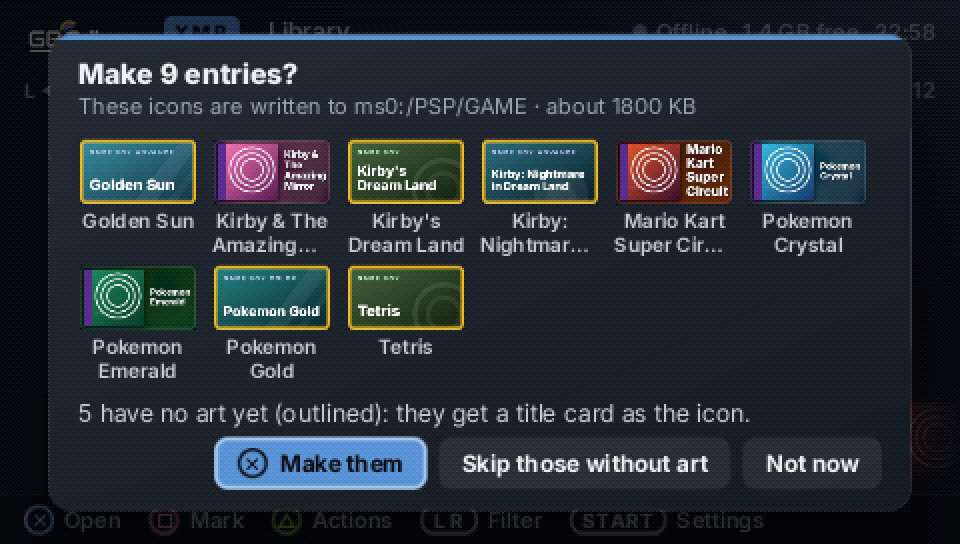
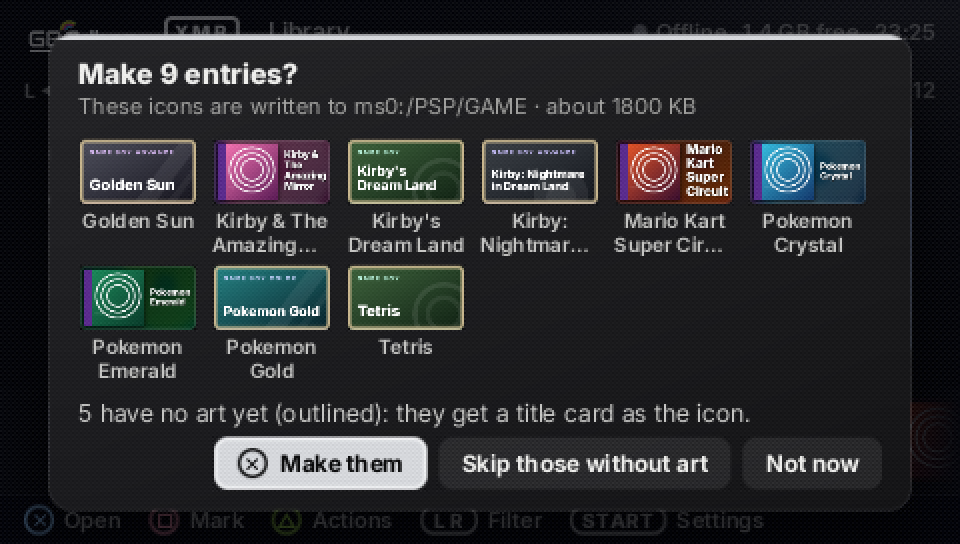
Mono: the new default theme in both apps and the README
Owner 2026-11-05: a true mono black as the main theme.  Near-black ground with layered dark
greys, off-white / mid-grey text, one soft silver accent; no orange or yellow (warn is a muted
sand, info a cool grey-blue); gradients stop short of pure black for the PSP LCD.  The XMB
badge is an outline in the text colour (2 px on the PSP: 1 px lines alias), in the sidebar,
the PSP header and the boot plate.  The light window turns the accent black.  WCAG AA for
text (lowest: fg-4 on ink-3, 4.67:1).

- brand.css + psp/theme.[ch]: Mono first; TH_MONO is the default and the fallback.
- New installs start in Mono; a saved theme (prefs palette / xmbapp.ini theme) is kept.
  Graphite, Slate, Teal and Classic stay selectable.
- tools/test_themes.py: five themes; PSP check_shots PASS on the Mono shots.
- README images recaptured in Mono (PSP in PPSSPP, Windows app, Online tab, hero from the
  real PSP model); text, badges and CHANGELOG updated.

diff --git a/desktop/ui/brand.css b/desktop/ui/brand.css
@@ -1,6 +1,7 @@
 /* GBAdhoc XMB — design tokens, shared by the desktop app (this file) and the PSP app
-   (psp/theme.c holds the same values as a C table). Four themes, chosen in Settings:
-     graphite  neutral graphite, white focus, the logo's amber accent (the default)
+   (psp/theme.c holds the same values as a C table). Five themes, chosen in Settings:
+     mono      true mono black: dark greys, off-white text, a soft silver accent (the default)
+     graphite  neutral graphite, white focus, the logo's amber accent
      slate     cool slate greys, a steel-blue accent
      teal      the same slate, the logo's teal accent; info moves to steel blue
      classic   the deep indigo and violet of 0.1.0-beta.1
@@ -22,9 +23,77 @@
   --mono: "JetBrains Mono", "Cascadia Mono", Consolas, monospace;
 }
 
-/* Graphite (the default). Neutral near-black, no blue cast. Focus is white on grey; the one
+/* Mono (the default, owner 2026-11-05). True mono: near-black ground, layered dark greys for
+   surfaces and cards, off-white and mid-grey text, one restrained light accent (soft silver).
+   No orange or yellow anywhere; warnings are a muted sand so they never read as an accent. The
+   XMB badge is an outline (app.css). Gradients stop short of pure black (the PSP LCD crushes it). */
+:root, :root[data-theme=mono] {
+  --ink-0: #0b0b0c;   /* deepest */
+  --ink-1: #111113;
+  --ink-2: #18181a;
+  --ink-3: #212124;
+  --ink-4: #2c2c30;
+  --line: rgba(255,255,255,.10);
+  --line-2: rgba(255,255,255,.20);
+  --fg: #eeeeec;
+  --fg-2: #c6c6c4;
+  --fg-3: #a2a2a0;
+  --fg-4: #8a8a8e;
+
+
+  /* accent: soft silver, light against the black */
+  --accent: #d6d8dc;
+  --accent-ink: #0b0b0c;
+  --accent-hover: #e8e9ec;
+  --accent-text: #e4e6ea;
+  --accent-soft: rgba(214,216,220,.12);
+  --accent-glow: rgba(214,216,220,.24);
+  --accent-edge: #f4f5f7;
+  --focus: #ffffff;                  /* white ring */
+  --focus-in: #0b0b0c;               /* dark gap inside it */
+  --sel: rgba(255,255,255,.11);      /* selected row / nav / chip: grey */
+  --cross: #8fc1ee;                  /* the PSP's cross glyph is blue */
+
+  /* status: the logo's lime and pink; warn is a muted sand, info a cool grey-blue */
+  --ok: var(--r-lime);   --ok-text: #b7ea5c;
+  --warn: #c8b68e; --warn-text: #ddcfab; --warn-text-2: #ece3cc; --warn-soft: rgba(200,182,142,.14); --warn-line: rgba(200,182,142,.5);
+  --bad: var(--r-pink);  --bad-text: #ff8aa8; --bad-text-2: #ffc4d3;
+  --info: #8ea4ba; --info-text: #b9cadb; --info-text-2: #dbe5ef; --info-soft: rgba(142,164,186,.14); --info-line: rgba(142,164,186,.45);
+
+  /* surfaces: layered greys, never pure black */
+  --page-bg: radial-gradient(120% 90% at 50% 110%,#1e1e20 0%,#0e0e0f 55%,#09090a 100%);
+  --bar-bg: rgba(13,13,14,.6);
+  --bar-bg-2: rgba(13,13,14,.8);
+  --toast-bg: rgba(13,13,14,.96);
+  --app-bg: radial-gradient(90% 70% at 100% 0,#262629 0%,#151517 42%,#0d0d0e 100%);
+  --app-glow: rgba(255,255,255,.06);
+  --panel-bg: linear-gradient(160deg,#252528,#151517);
+  --strip-fade: #131315;
+  --empty-a: #2c2c30;
+  --empty-b: #18181a;
+
+  /* the XMB preview: the PSP's own classic blue wave, not the app's colour */
+  --xmb-bg: #0e1a3a;
+  --xmb-wave-a: #2e63c9;
+  --xmb-wave-b: #163a8a;
+  --xmb-wave-c: #081433;
+
+  /* generated title cards (no art yet): near-neutral greys with a faint cool cast */
+  --card-gba-hue: 220; --card-gba-sat: 8; --card-gba-light: 32; --card-other-hue: 220; --card-spread: 30;
+
+  /* desktop window, dark */
+  --d-bg: #111113; --d-bg-2: #18181a; --d-bg-3: #202023; --d-panel: #141416; --d-card: #1b1b1e;
+  /* desktop window, light (app.css turns the accent black there) */
+  --dl-bg: #f4f4f4; --dl-bg-2: #e9e9ea; --dl-bg-3: #dededf;
+  --dl-text: #151516; --dl-text-2: #3a3a3d; --dl-text-3: #535357; --dl-text-4: #5d5d62;
+  --dl-line: rgba(21,21,22,.1); --dl-line-2: rgba(21,21,22,.2); --dl-hover: rgba(21,21,22,.05); --dl-sel: rgba(21,21,22,.08);
+  --dl-accent-text: #2b2b2e; --dl-ok-text: #46710a; --dl-info-text: #3b5168; --dl-bad-text: #b8123f; --dl-warn-text: #6a5a30;
+  --dl-focus: #151516;   /* the focus ring on light surfaces */
+}
+
+/* Graphite. Neutral near-black, no blue cast. Focus is white on grey; the one
    warm accent is the logo's amber. Warnings move to orange so they never read as the accent. */
-:root, :root[data-theme=graphite] {
+:root[data-theme=graphite] {
   --ink-0: #0a0a0b;   /* deepest */
   --ink-1: #111112;
   --ink-2: #19191b;

diff --git a/desktop/ui/app.css b/desktop/ui/app.css
@@ -40,6 +40,7 @@ body.light{background:var(--dl-bg)}
 /* Settings > Theme: one swatch per theme (its ground and its accent) */
 .tpick button{display:inline-flex;align-items:center;gap:6px;padding:4px 10px}
 .tpick i{width:12px;height:12px;border-radius:3px;box-shadow:0 0 0 1px var(--bd-2)}
+.tpick [data-p=mono] i{background:linear-gradient(135deg,#18181a 50%,#d6d8dc 50%)}
 .tpick [data-p=graphite] i{background:linear-gradient(135deg,#232326 50%,#f5c518 50%)}
 .tpick [data-p=slate] i{background:linear-gradient(135deg,#20262f 50%,#5b94d6 50%)}
 .tpick [data-p=teal] i{background:linear-gradient(135deg,#20262f 50%,#1fb8b0 50%)}
@@ -136,3 +137,8 @@ details#on-logbox[open] summary h3::after{content:" ▾"}
 .statusbar span{white-space:nowrap;overflow:hidden;text-overflow:ellipsis;min-width:0}
 .note{max-width:100%;box-sizing:border-box}
 .oacts{margin-top:10px;display:flex;gap:8px;flex-wrap:wrap}
+
+/* ---- Mono (the default): the XMB badge is an outline in the text colour, never a filled plate;
+   in the light window the silver accent turns black so buttons and bars keep their contrast ---- */
+:root[data-theme=mono] .rail .logo .xmb,:root[data-theme=mono] .brand .xmb{background:none;color:var(--text,var(--fg));box-shadow:inset 0 0 0 1.5px currentColor}
+:root[data-theme=mono] .win[data-theme=light]{--accent:#1b1b1d;--accent-ink:#f4f4f4;--accent-hover:#333336;--accent-soft:rgba(21,21,22,.07);--accent-glow:rgba(21,21,22,.18)}

diff --git a/desktop/ui/desktop.js b/desktop/ui/desktop.js
@@ -575,9 +575,9 @@
 
   // ---------- chrome wiring ----------
   // the colour theme (brand.css: <html data-theme>); dark/light is the window's own data-theme
-  const PALETTES = [['graphite', 'Graphite'], ['slate', 'Slate'], ['teal', 'Teal'], ['classic', 'Classic']];
+  const PALETTES = [['mono', 'Mono'], ['graphite', 'Graphite'], ['slate', 'Slate'], ['teal', 'Teal'], ['classic', 'Classic']];
   function setPalette(p) {
-    if (!PALETTES.some(x => x[0] === p)) p = 'graphite';
+    if (!PALETTES.some(x => x[0] === p)) p = 'mono';   // new installs: Mono (a saved choice is kept)
     document.documentElement.dataset.theme = p;
   }
   function setTheme(t) {

diff --git a/psp/theme.c b/psp/theme.c
@@ -1,4 +1,4 @@
-/* theme.c -- the four themes; values from desktop/ui/brand.css (the design's
+/* theme.c -- the five themes; values from desktop/ui/brand.css (the design's
  * tokens, builds of the designer's mockup), see theme.h. */
 #include "theme.h"
 
@@ -6,7 +6,28 @@
 #include <strings.h>
 
 const theme_t g_themes[TH_COUNT] = {
-   /* Graphite (the default): neutral graphite, white focus, the logo's amber accent;
+   /* Mono (the default, owner 2026-11-05): true mono black, layered dark greys, off-white
+    * text, a soft silver accent; warn is a muted sand, info a cool grey-blue; the XMB
+    * badge is an outline (ui.c, ui_kit.c) */
+   { "mono", "Mono",
+     0xFF0B0B0Cu, 0xFFEEEEECu, 0xFFC6C6C4u, 0xFFA2A2A0u, 0xFF8A8A8Eu,
+     0xFFA2A2A0u,
+     0x1AFFFFFFu, 0x33FFFFFFu,
+     0xFFD6D8DCu, 0xFF0B0B0Cu, 0xFFE4E6EAu, 0xFFF4F5F7u, 0x1FD6D8DCu,
+     0x1CFFFFFFu, 0xFFFFFFFFu, 0xFF0B0B0Cu,
+     0xFF8FC1EEu,
+     0xFF8AC32Au, 0xFFC8B68Eu, 0xFFEF3F6Du, 0xFF8EA4BAu,
+     0xFFB7EA5Cu, 0xFFDDCFABu, 0xFFECE3CCu, 0xFFFF8AA8u, 0xFFDBE5EFu,
+     0x24C8B68Eu, 0x80C8B68Eu, 0x248EA4BAu, 0x738EA4BAu,
+     0xF50D0D0Eu,
+     { 0xFF262629u, 0xFF151517u, 0xFF0D0D0Eu },
+     0xFFFFFFu, 0.06f,
+     0xFF252528u, 0xFF151517u,
+     0xFF131315u,
+     0xFF2C2C30u, 0xFF18181Au,
+     0xFF0E1A3Au, { 0xFF2E63C9u, 0xFF163A8Au, 0xFF081433u },
+     220, 8, 32, 30 },
+   /* Graphite: neutral graphite, white focus, the logo's amber accent;
     * warn moves to orange so it is never the accent */
    { "graphite", "Graphite",
      0xFF0A0A0Bu, 0xFFF1F1F0u, 0xFFC8C8C6u, 0xFFA1A19Fu, 0xFF858589u,
@@ -85,13 +106,13 @@ const theme_t g_themes[TH_COUNT] = {
      270, 62, 44, 110 },
 };
 
-int g_theme = TH_GRAPHITE;
-const theme_t *g_th = &g_themes[TH_GRAPHITE];
+int g_theme = TH_MONO;
+const theme_t *g_th = &g_themes[TH_MONO];
 
 int theme_set(int i)
 {
    if (i < 0 || i >= TH_COUNT)
-      i = TH_GRAPHITE;
+      i = TH_MONO;
    g_theme = i;
    g_th = &g_themes[i];
    return i;

diff --git a/psp/ui.c b/psp/ui.c
@@ -306,8 +306,11 @@ static void draw_boot(view *v)
       {
          float ww = text_wt(XF_800_12, "XMB", 4.08f) + 8 + 11 - 4.08f, wy = y0 + 72 + 8 * (1 - k2);
          gfx_push(0, 0, 1, k2 > 0 ? 1 : 0);
-         gfx_rrect(240 - ww / 2, wy, ww, 21, 5, C_ACCENT);
-         gfx_text_n(XF_800_12, 240 - ww / 2 + 11, wy + 3 + face_baseline(XF_800_12, 15), "XMB", -1, 4.08f, C_ACCENT_INK);
+         if (g_theme == TH_MONO)   /* Mono: an outline, 2 px (1 px aliases on the LCD) */
+            gfx_rring(240 - ww / 2, wy, ww, 21, 5, 2, C_FG);
+         else
+            gfx_rrect(240 - ww / 2, wy, ww, 21, 5, C_ACCENT);
+         gfx_text_n(XF_800_12, 240 - ww / 2 + 11, wy + 3 + face_baseline(XF_800_12, 15), "XMB", -1, 4.08f, g_theme == TH_MONO ? C_FG : C_ACCENT_INK);
          gfx_pop();
       }
       {

diff --git a/psp/ui_kit.c b/psp/ui_kit.c
@@ -196,8 +196,11 @@ void kit_top(const char *dim, const char *bold)
    float x, rx;
    kit_logo(LOGO_TOP, 8, 4, 66, 24, 1);
    /* XMB plate: 37.9 x 16 at (82,8), r4 */
-   gfx_rrect(82, 8, 37.91f, 16, 4, C_ACCENT);
-   gfx_text_n(XF_800_10, 87, 8 + face_baseline(XF_800_10, 12.5f) + 1.75f, "XMB", -1, 1.4f, C_ACCENT_INK);
+   if (g_theme == TH_MONO)   /* Mono: an outline, 2 px (1 px aliases on the LCD) */
+      gfx_rring(82, 8, 37.91f, 16, 4, 2, C_FG);
+   else
+      gfx_rrect(82, 8, 37.91f, 16, 4, C_ACCENT);
+   gfx_text_n(XF_800_10, 87, 8 + face_baseline(XF_800_10, 12.5f) + 1.75f, "XMB", -1, 1.4f, g_theme == TH_MONO ? C_FG : C_ACCENT_INK);
    /* the right cluster, laid out from the right edge (468) */
    wall_hm(&hh, &mm);
    snprintf(right, sizeof(right), "%02d:%02d", hh, mm);

diff --git a/psp/theme.h b/psp/theme.h
@@ -7,7 +7,7 @@
 
 #include <stdint.h>
 
-enum { TH_GRAPHITE, TH_SLATE, TH_TEAL, TH_CLASSIC, TH_COUNT };
+enum { TH_MONO, TH_GRAPHITE, TH_SLATE, TH_TEAL, TH_CLASSIC, TH_COUNT };
 
 typedef struct
 {
@@ -43,7 +43,7 @@ extern int g_theme;            /* index of g_th */
 
 /* select a theme by index; returns the index used */
 int theme_set(int i);
-/* "graphite" -> TH_GRAPHITE; -1 if unknown */
+/* "mono" -> TH_MONO; -1 if unknown */
 int theme_find(const char *id);
 
 #endif

diff --git a/psp/model.h b/psp/model.h
@@ -113,7 +113,7 @@ typedef struct
 typedef struct
 {
    int prefer_own, region, heroes;
-   int theme;                /* TH_* (theme.h); ini: theme = graphite|slate|teal|classic */
+   int theme;                /* TH_* (theme.h); ini: theme = mono|graphite|slate|teal|classic */
 } prefs_t;
 
 extern game g_games[MAX_GAMES];

diff --git a/tools/test_themes.py b/tools/test_themes.py
@@ -13,7 +13,7 @@ both apps share must agree with brand.css.  Exit 0 on success.
 import os, re, sys
 
 ROOT = os.path.dirname(os.path.dirname(os.path.abspath(__file__)))
-THEMES = ["graphite", "slate", "teal", "classic"]
+THEMES = ["mono", "graphite", "slate", "teal", "classic"]
 fail = []
 
 

diff --git a/psp/model.c b/psp/model.c
@@ -18,7 +18,7 @@ int g_ngames;
 entry_t g_entries[MAX_ENTRIES];
 int g_nentries;
 storage_t g_st;
-prefs_t g_prefs = { 1, 0, 1, TH_GRAPHITE };
+prefs_t g_prefs = { 1, 0, 1, TH_MONO };   /* new installs: Mono; a saved theme is kept */
 int g_scan_ver;
 
 /* ---- status ---- */

diff --git a/README.md b/README.md
@@ -10,9 +10,9 @@
 
 <p align="center">
   <a href="LICENSE"><img src="https://img.shields.io/badge/licence-GPL--2.0--or--later-5a5a5f" alt="Licence: GPL-2.0-or-later"></a>
-  <a href="https://github.com/ShoshinFauteux/GBAdhoc-XMB/releases"><img src="https://img.shields.io/badge/release-0.2.0--beta.1%20(pre--release)-5b94d6" alt="Release: 0.2.0-beta.1, pre-release"></a>
-  <img src="https://img.shields.io/badge/PSP-1000%20%C2%B7%202000%20%C2%B7%203000%20%C2%B7%20Go-6b7686" alt="PSP-1000, 2000, 3000 and Go">
-  <img src="https://img.shields.io/badge/Windows-10%20%C2%B7%2011-6b7686" alt="Windows 10 and 11">
+  <a href="https://github.com/ShoshinFauteux/GBAdhoc-XMB/releases"><img src="https://img.shields.io/badge/release-0.2.0--beta.1%20(pre--release)-4a4a4f" alt="Release: 0.2.0-beta.1, pre-release"></a>
+  <img src="https://img.shields.io/badge/PSP-1000%20%C2%B7%202000%20%C2%B7%203000%20%C2%B7%20Go-4a4a4f" alt="PSP-1000, 2000, 3000 and Go">
+  <img src="https://img.shields.io/badge/Windows-10%20%C2%B7%2011-4a4a4f" alt="Windows 10 and 11">
 </p>
 
 <p align="center">
@@ -27,7 +27,7 @@
 <p align="center">
   <img src="docs/img/hero.png" alt="GBAdhoc XMB for Windows, with Pokemon Emerald's entry open and its XMB preview, and in front of it a PSP whose screen shows GBAdhoc XMB's library with Golden Sun selected" width="880">
   <br>
-  <sub><b>The Windows app and the PSP app</b>, in the Slate theme. Both screens captured from the real apps, on a test folder of placeholder ROMs; the PSP is a 3D render of the <a href="https://sketchfab.com/3d-models/sony-psp-dca89d10ec304d0cab76837750df7761">Sony PSP model</a> by <a href="https://sketchfab.com/strov">Ilya Ostrovsky</a>, <a href="http://creativecommons.org/licenses/by/4.0/">CC BY 4.0</a>.</sub>
+  <sub><b>The Windows app and the PSP app</b>, in the Mono theme. Both screens captured from the real apps, on a test folder of placeholder ROMs; the PSP is a 3D render of the <a href="https://sketchfab.com/3d-models/sony-psp-dca89d10ec304d0cab76837750df7761">Sony PSP model</a> by <a href="https://sketchfab.com/strov">Ilya Ostrovsky</a>, <a href="http://creativecommons.org/licenses/by/4.0/">CC BY 4.0</a>.</sub>
 </p>
 
 **GBAdhoc XMB is a companion to [GBAdhoc](https://github.com/ShoshinFauteux/GBAdhoc),** the
@@ -38,8 +38,8 @@ XMB and it opens straight into GBAdhoc, with the same saves and save states as t
 It comes as two apps with one design. **The PSP app** does everything on the console: it
 finds your ROMs, recognises them, fetches their art over Wi-Fi and makes the entries.
 **The Windows app** does the same over USB, for a whole library at once.
-Both come in four colour themes, chosen in Settings: **Graphite** (the default), **Slate**,
-shown here, **Teal** and **Classic**.
+Both come in five colour themes, chosen in Settings: **Mono**, the default, shown here,
+**Graphite**, **Slate**, **Teal** and **Classic**.
 
 **New: play online from your PC.** The Windows app can host GBAdhoc's online link play: press
 *Host*, send your friend a four-letter code, and your PSPs link over the internet, directly
@@ -222,14 +222,16 @@ These are the problems found in the first real sessions.
 - **Previews the XMB** for each game before it writes anything.
 - **Uses the PSP's own network settings** and works offline: without Wi-Fi you can still make
   entries with the art already on the stick.
-- **Four colour themes.** Graphite (neutral greys with an amber accent, the default), Slate
-  (cool greys, steel blue), Teal (the logo's teal) and Classic (the indigo and violet of the
-  first beta). Change it in Settings › Theme with ◀ and ▶; it applies at once and is kept.
+- **Five colour themes.** Mono (true mono black: layered dark greys, off-white text and a
+  soft silver accent, the default), Graphite (neutral greys with an amber accent), Slate (cool
+  greys, steel blue), Teal (the logo's teal) and Classic (the indigo and violet of the first
+  beta). Change it in Settings › Theme with ◀ and ▶; it applies at once and is kept. A theme you
+  chose before is kept; new installs start in Mono.
 
 ### Windows app
 
 - **One exe, nothing to install.** The UI is inside it, shown by the WebView2 runtime that
-  Windows 10 and 11 include. The same four colour themes as the PSP app, in Settings › Theme,
+  Windows 10 and 11 include. The same five colour themes as the PSP app, in Settings › Theme,
   each in dark or light.
 - **Finds the PSP by itself**, whatever drive letter Windows gives it, on a PSP-1000, 2000, 3000
   or Go. A Go's Memory Stick and internal storage are both shown.

diff --git a/CHANGELOG.md b/CHANGELOG.md
@@ -58,7 +58,15 @@ Join with code.
 - Tests: the Online tab's new states (`online_ui.js`, 125 checks). `test_online directory` runs
   the loopback directory alone, for the README screenshots.
 
-**README:** shown in Slate, with a neutral outlined "XMB" mark and neutral badges. Every image
+**Mono, the new default theme (both apps, owner 2026-11-05).** A true mono black: a near-black
+ground with layered dark greys, off-white and mid-grey text, and one soft silver accent. There
+is no orange or yellow: warnings are a muted sand and info is a cool grey-blue. Gradients stop
+short of pure black. The XMB badge is an outline, 2 px on the PSP (1 px lines alias on the LCD).
+In the light window the accent turns black. Text meets WCAG AA (fg-4 on cards 5.0:1). New
+installs start in Mono, and a saved theme is kept. Graphite, Slate, Teal and Classic stay
+selectable. `tools/test_themes.py` covers five themes.
+
+**README:** shown in Mono, with a neutral outlined "XMB" mark and neutral badges. Every image
 is recaptured: the PSP app in PPSSPP, the Windows app with its own capture, and the hero with
 the real PSP model. A *Play online* section adds steps and troubleshooting.
 
